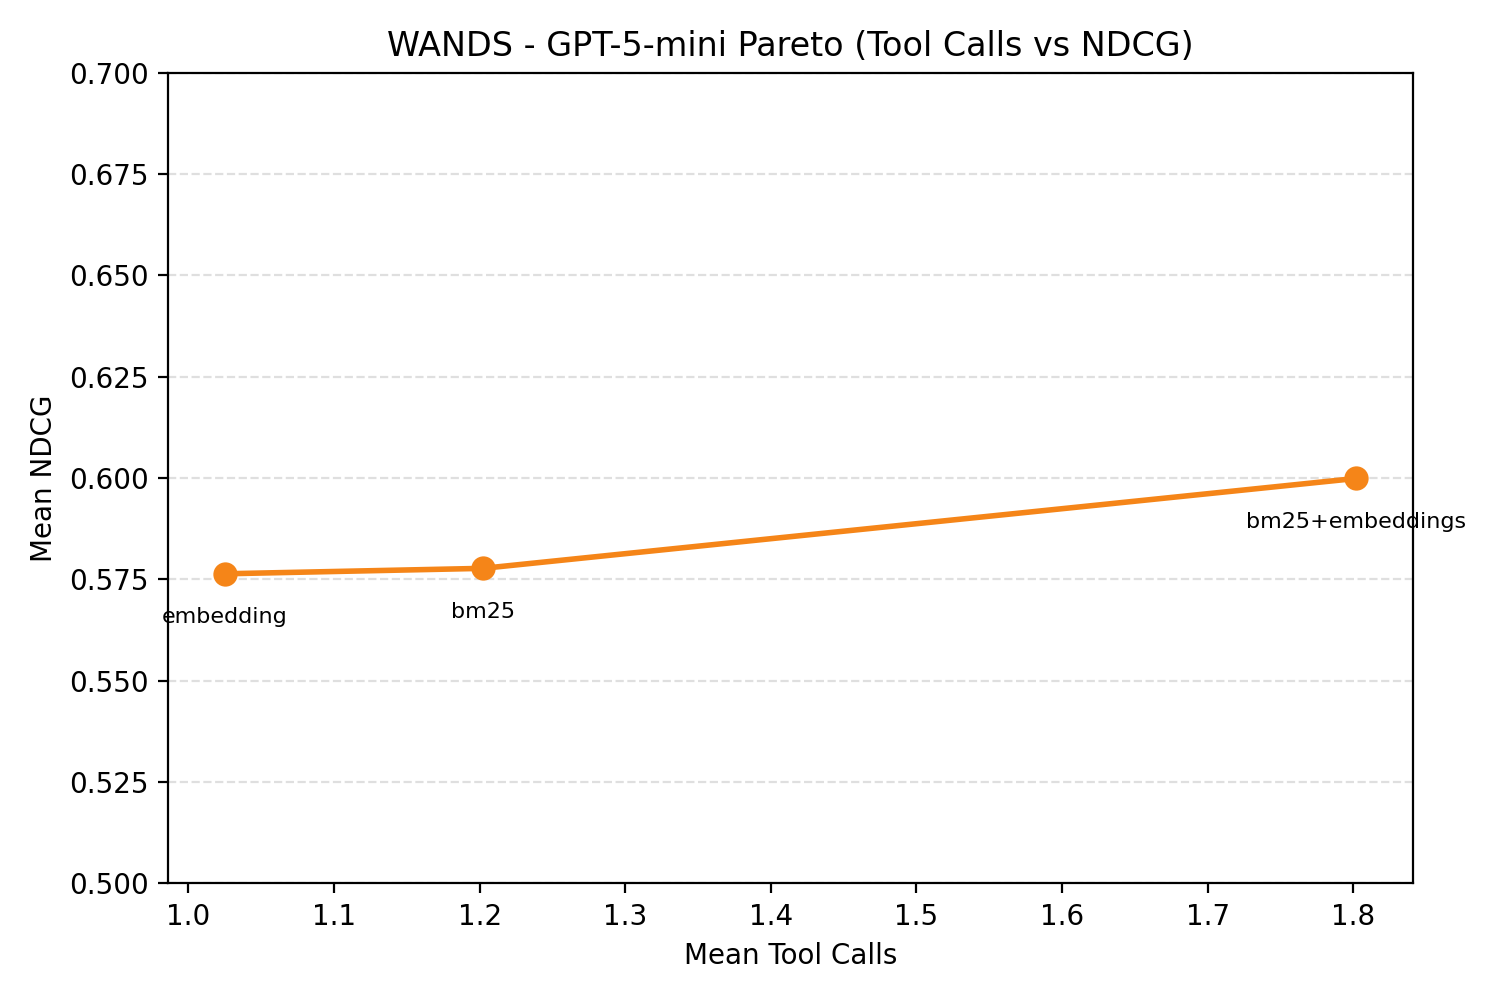
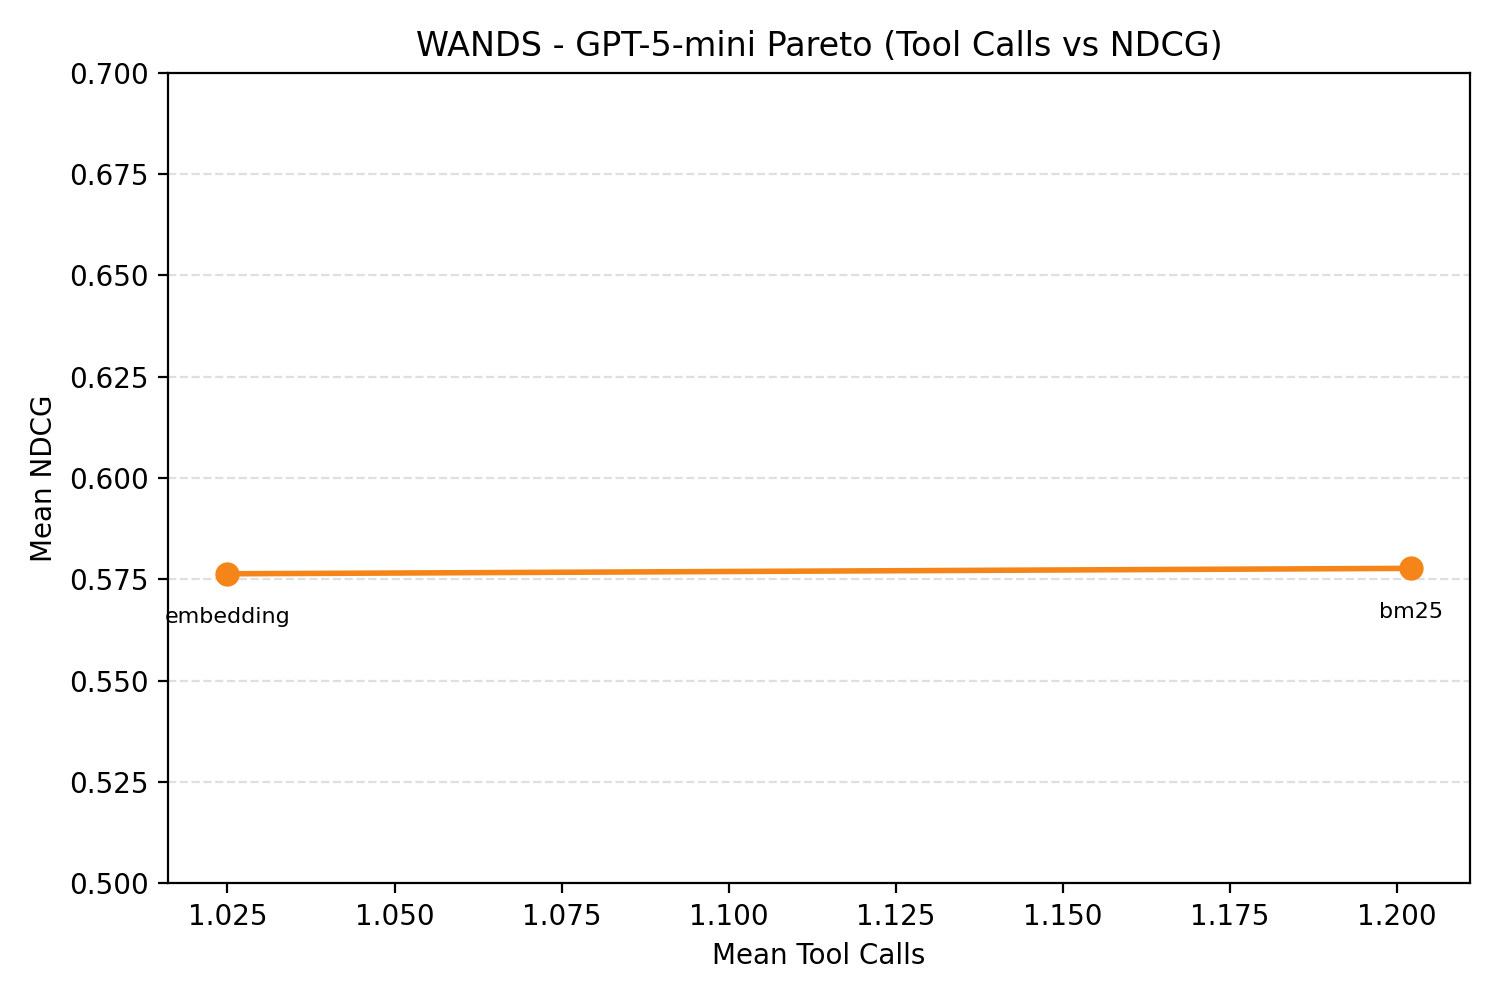
Rename pareto e5 strategy label

diff --git a/scripts/plot_pareto_tool_calls.py b/scripts/plot_pareto_tool_calls.py
@@ -17,14 +17,14 @@ GPT5_STRATEGY = "agentic_bm25_e5_ecommerce_gpt5"
 PARETO_STRATEGIES = {
     "agentic_e5_ecommerce_gpt5_mini",
     "agentic_bm25_ecommerce_gpt5_mini",
-    "agentic_bm25_e5_base_v2_ecommerce_gpt5_mini",
+    "agentic_bm25_e5_ecommerce_gpt5_mini",
 }
 
 LABEL_MAP = {
     "agentic_e5_ecommerce_gpt5_mini": "embedding",
     "agentic_bm25_ecommerce_gpt5_mini": "bm25",
     "agentic_bm25_minilm_ecommerce_gpt5_mini": "bm25+embedding",
-    "agentic_bm25_e5_base_v2_ecommerce_gpt5_mini": "bm25+embeddings",
+    "agentic_bm25_e5_ecommerce_gpt5_mini": "bm25+embeddings",
 }
 
 
